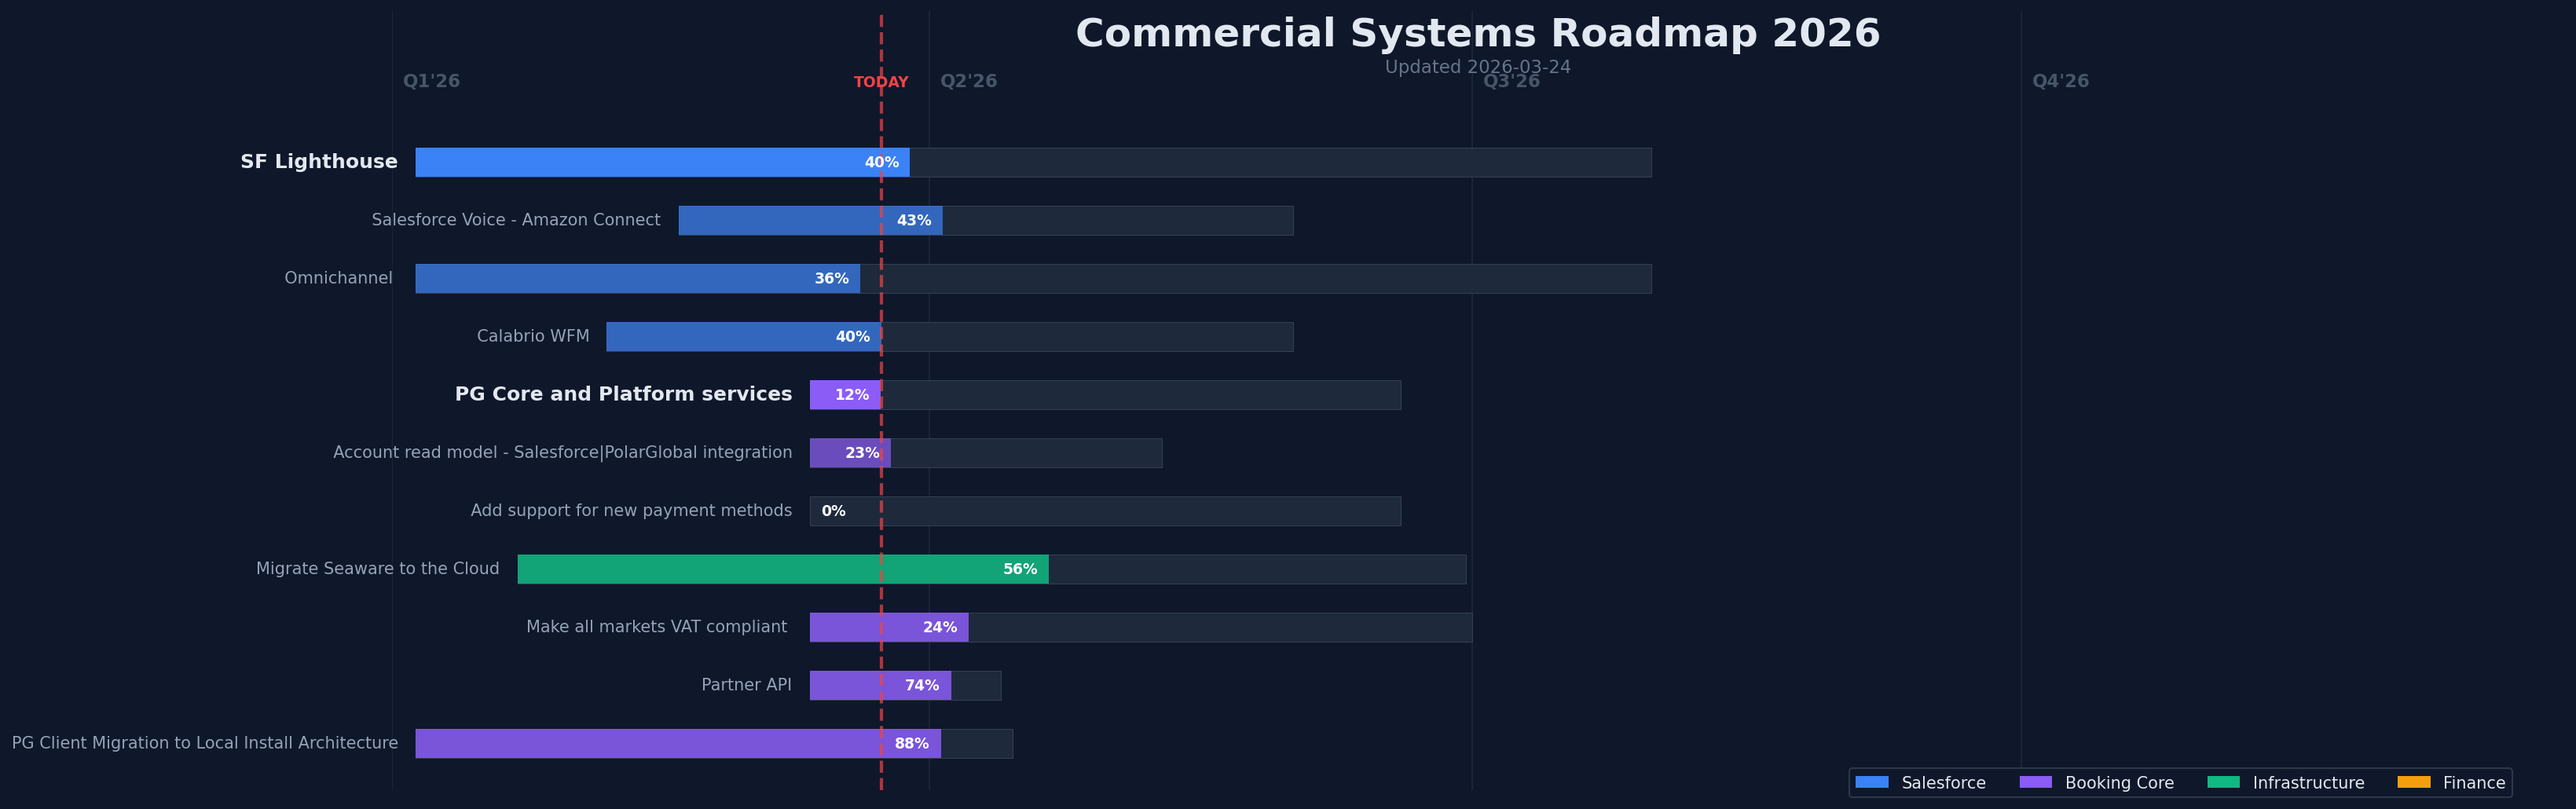
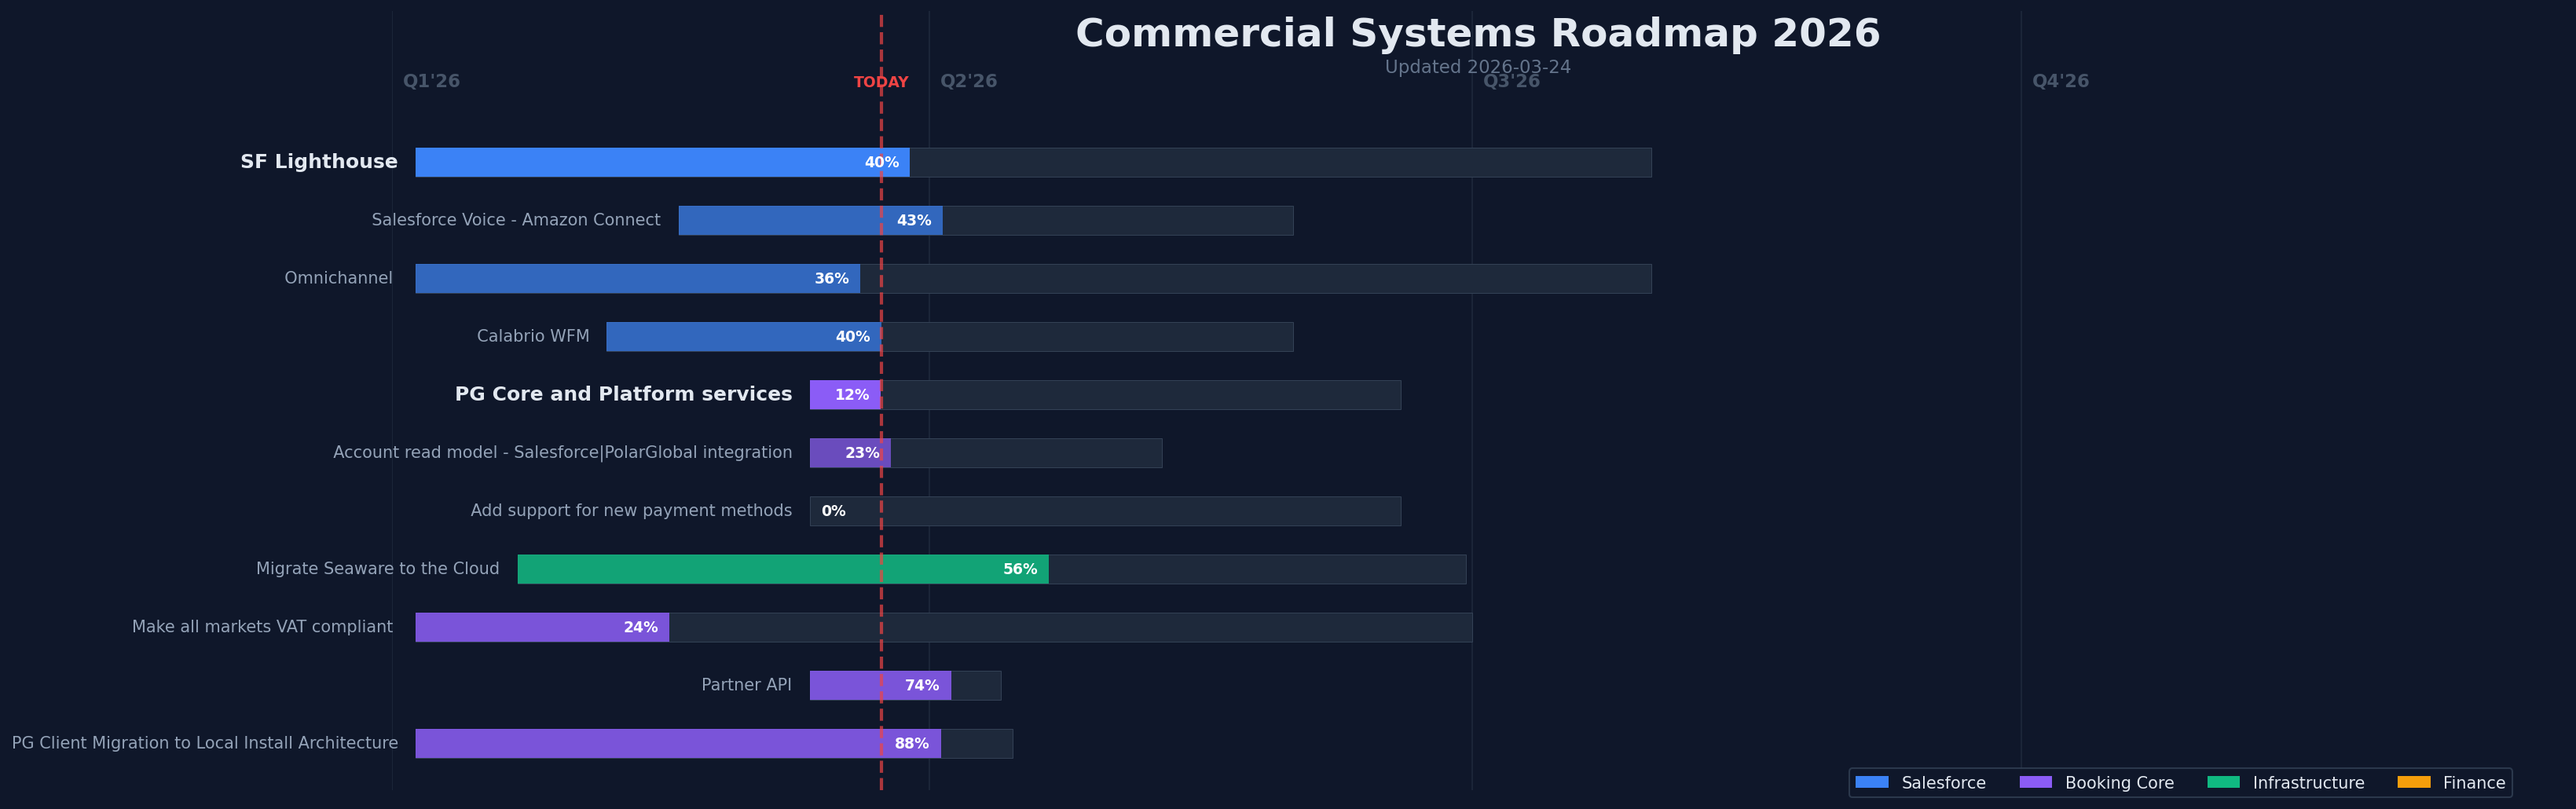
Auto-sync 2026-03-24

Changed region(s): [[0.0622, 0.7456, 0.3733, 0.8078]]

diff --git a/index.html b/index.html
@@ -64,7 +64,7 @@ const DATA = [
   { name: "sep" },
   { name: "Migrate Seaware to the Cloud", start: "2026-01-22", end: "2026-06-30", pct: 56, cat: "infra", jira: "https://hurtigruten.atlassian.net/browse/INFRA-2468", status: "20/39 done, 4 in progress, 15 to do. Weighted: 56%" },
   { name: "sep" },
-  { name: "Make all markets VAT compliant ", start: "2026-03-12", end: "2026-07-01", pct: 24, cat: "core", jira: "https://hurtigruten.atlassian.net/browse/PC-3888", status: "2/15 done, 2 in progress, 10 to do, 1 blocked. Weighted: 24%" },
+  { name: "Make all markets VAT compliant ", start: "2026-01-05", end: "2026-07-01", pct: 24, cat: "core", jira: "https://hurtigruten.atlassian.net/browse/PC-3888", status: "2/15 done, 2 in progress, 10 to do, 1 blocked. Weighted: 24%" },
   { name: "Partner API", start: "2026-03-12", end: "2026-04-13", pct: 74, cat: "core", jira: "https://hurtigruten.atlassian.net/browse/AV-2324", status: "4/8 done, 3 in progress, 1 to do. Weighted: 74%" },
   { name: "PG Client Migration to Local Install Architecture", start: "2026-01-05", end: "2026-04-15", pct: 88, cat: "core", jira: "https://hurtigruten.atlassian.net/browse/PC-3731", status: "14/17 done, 2 in progress, 1 to do. Weighted: 88%" },
 ];
